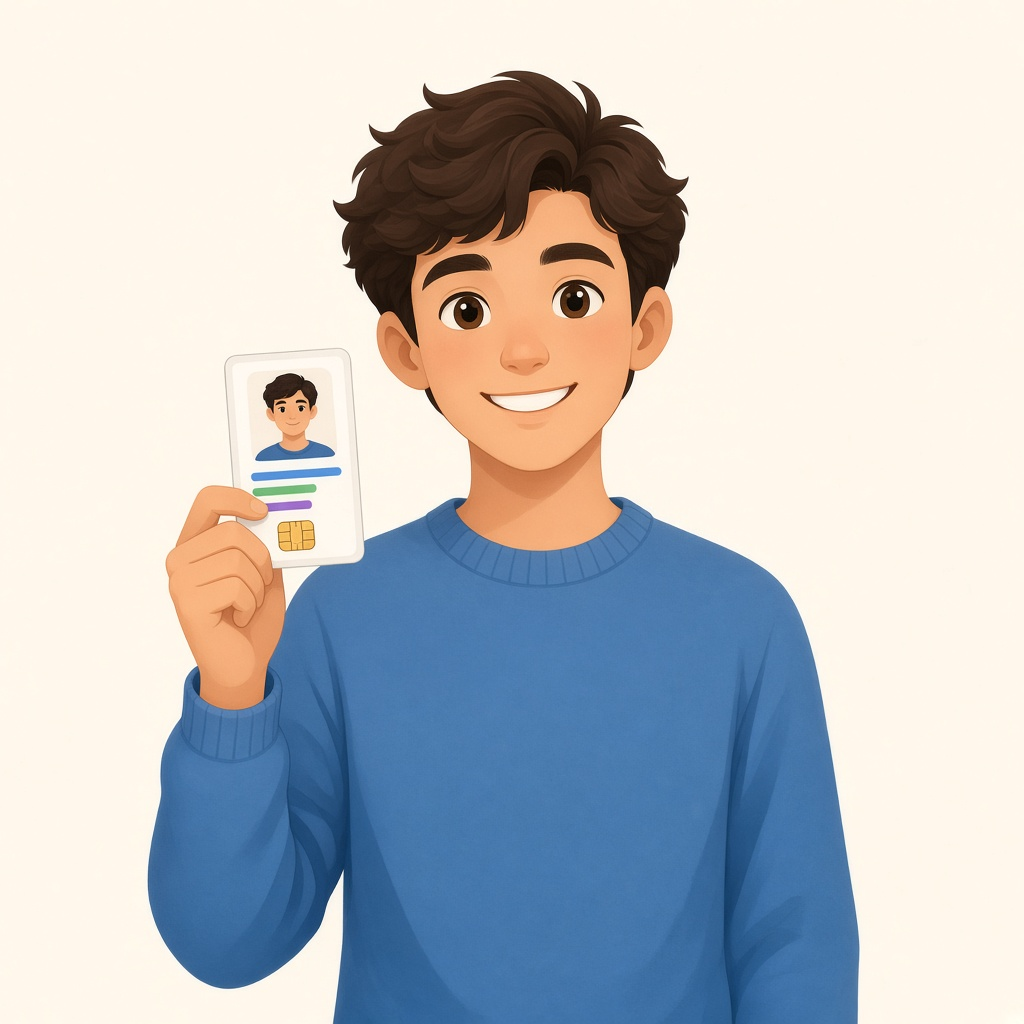
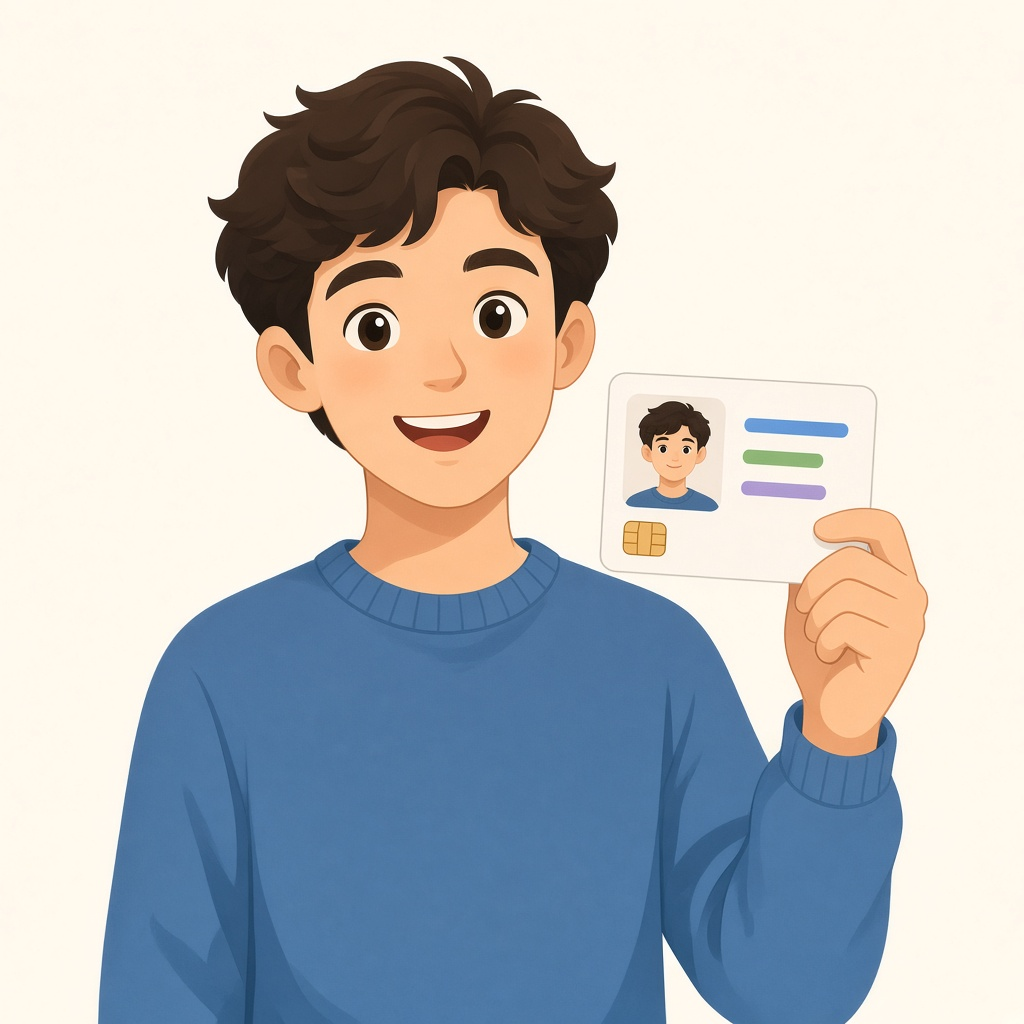
feat: show the ID photo example with a horizontal card
The sample illustration now holds a landscape ID beside the face, matching how most identity cards are shaped.

diff --git a/components/interview/interview-student-info.tsx b/components/interview/interview-student-info.tsx
@@ -641,7 +641,7 @@ export function InterviewStudentInfo({
             <div className="flex items-center gap-3 rounded-xl bg-[#f5f5f7] p-3">
               {/* eslint-disable-next-line @next/next/no-img-element */}
               <img
-                src="/id-photo-example.jpg"
+                src="/id-photo-example.jpg?v=2"
                 alt="Example of holding an ID beside your face"
                 className="h-36 w-36 shrink-0 rounded-lg object-cover"
               />
